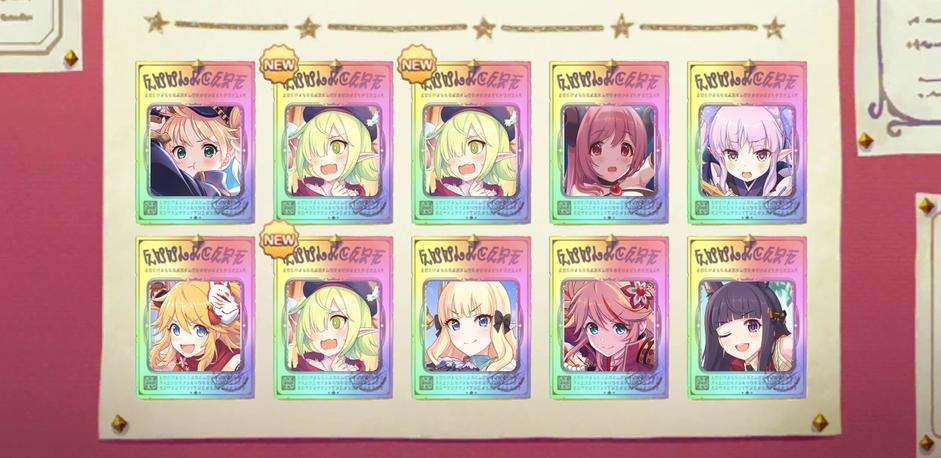
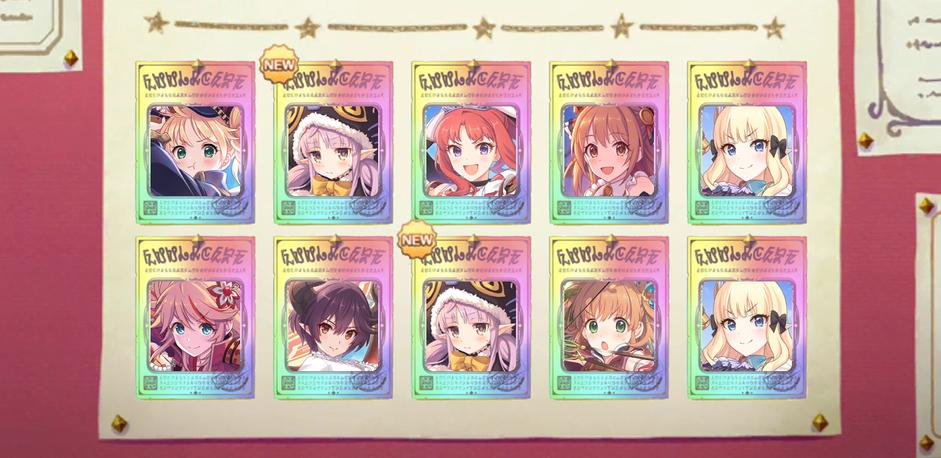
updated gacha

diff --git a/re_ames.py b/re_ames.py
@@ -80,7 +80,7 @@ _dcon =             True
 
 # auth
 _kill =             True
-_help =             False
+_help =             True
 
 # shen
 _shitpost =         True
@@ -110,6 +110,7 @@ __pos =             True and _hatsune
 __data =            True and _hatsune
 
 _guide =            True
+__cbtag =           True
 
 # cb
 _cb =               False
@@ -489,7 +490,7 @@ async def pos(ctx, *tags:str):
 # BIG
 @client.command(aliases=['b'], enabled=__big)
 async def big(ctx, emoji:str):
-    await enlarge(ctx, emoji, emj)
+    await sh.enlarge(ctx, emoji, emj)
 
 # GUIDE
 @client.command(enabled=_guide)
@@ -504,7 +505,7 @@ async def guide(ctx, chara=""):
         await ctx.channel.send(emj['sarenf']+'The database isn\'t connected!')
 
 # CBTAG
-@client.command()
+@client.command(enabled=__cbtag)
 async def cbtag(ctx, *options):
     await cbt.cbtag(ctx, options, emj, client)
 

diff --git a/commands/roll.py b/commands/roll.py
@@ -137,7 +137,7 @@ def gacha_result(t=10, mode=''):
 
     # LIMITED/SEASONAL ADDITION - PLEASE MANUALLY FILL
     # DOES NOT APPLY TO RATEUPS FOR NORMAL POOL CHARAS!
-    ssr_up = ['chloe']
+    ssr_up = ['hkyouka']
     ssr_up_rate_indiv = 0.007
     
     rolls = []
